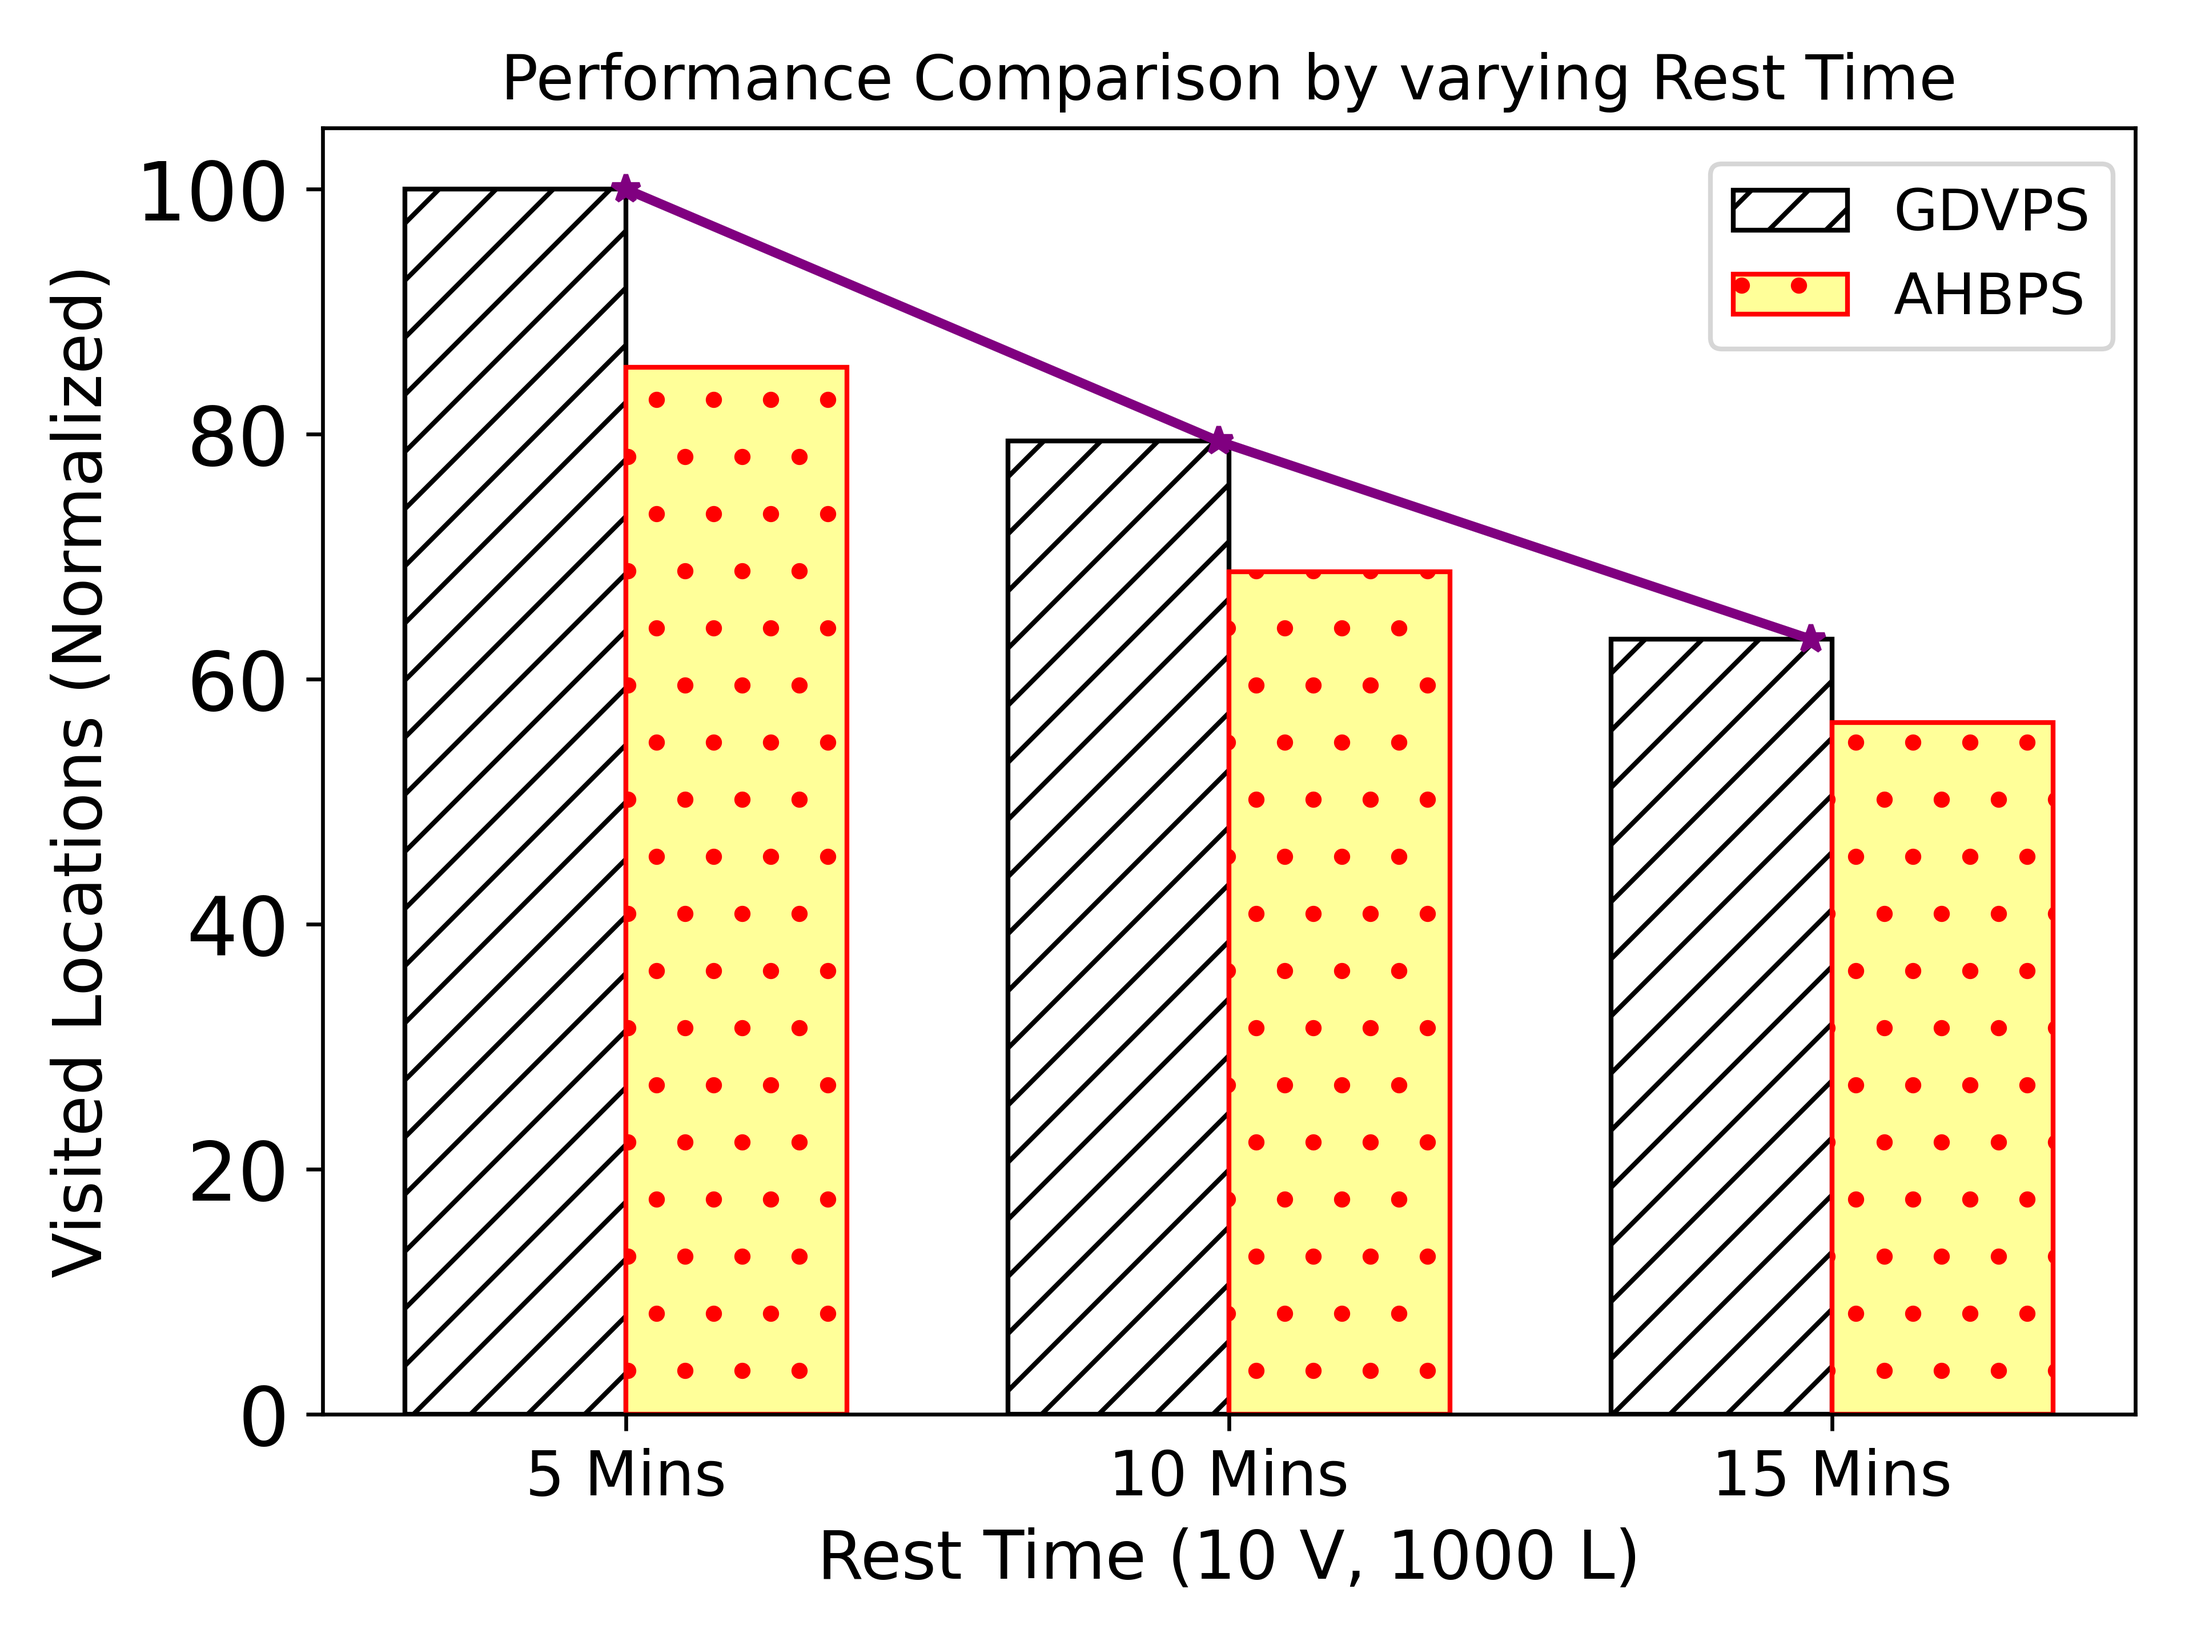
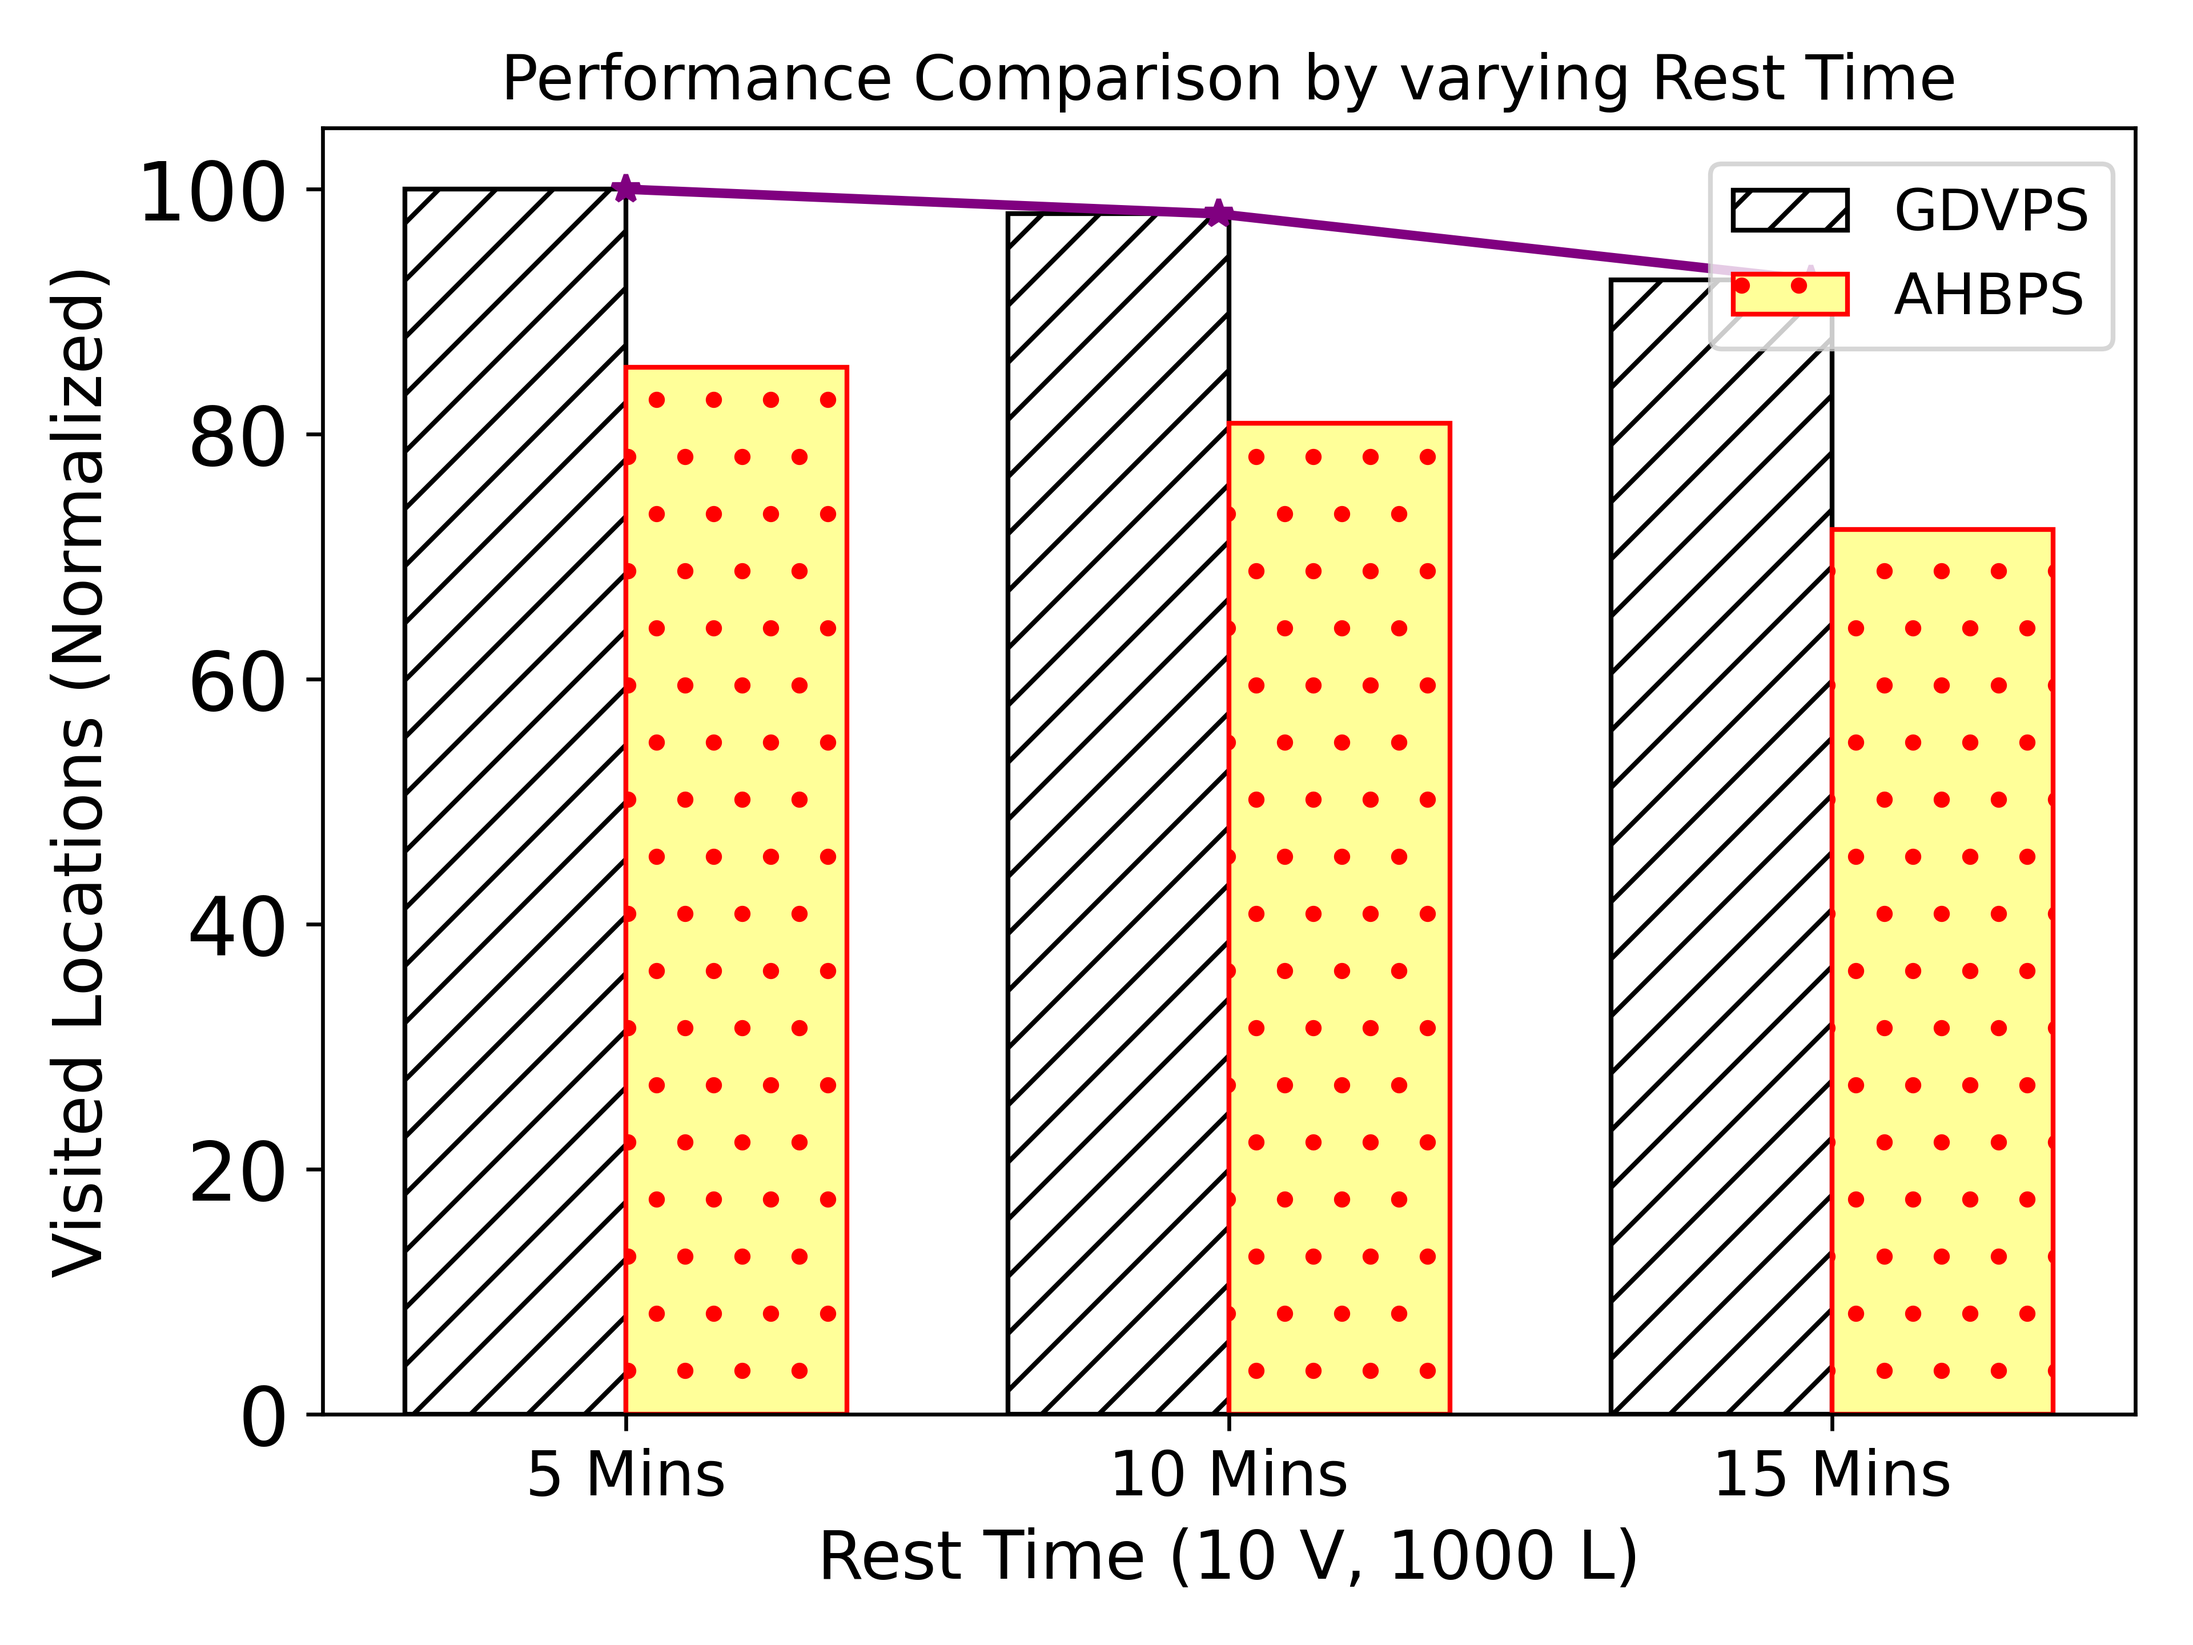
Other visualizations are added

Changed region(s): [[0.2812, 0.0938, 0.9375, 0.4688], [0.3438, 0.1562, 0.4062, 0.1875]]

diff --git a/Visualize_codes/Visualize.py b/Visualize_codes/Visualize.py
@@ -16,44 +16,59 @@ ahbps_values = [4.0, 8.0, 13.0, 4.0, 9.0, 14.0, 5.0, 9.0, 14.0, 5.0, 9.0, 14.0]
 gdvps_values = [6.0, 11.0, 15.0, 6.0, 11.0, 16.0, 6.0, 10.0, 16.0, 6.0, 11.0, 17.0]
 
 # OPL (Optimal) values
-opl_values = [7.0, 12.0, 17.0, 7.0, 13.0, 19.0, 8.0, 13.0, 17.0, 9.0, 15.0, 21.0]
+opl_values = [7.0, 12.0, 17.0, 8.0, 13.0, 19.0, 9.0, 13.0, 17.0, 10.0, 15.0, 21.0]
+
+# Find the maximum value across all sets
+max_value = max(max(ahbps_values), max(gdvps_values), max(opl_values))
+
+# Normalize the values between 0 and 100
+ahbps_values_normalized = [(val / max_value) * 100 for val in ahbps_values]
+gdvps_values_normalized = [(val / max_value) * 100 for val in gdvps_values]
+opl_values_normalized = [(val / max_value) * 100 for val in opl_values]
 
 # X-axis positions
-x = np.arange(len(scenarios)) * 1.5
-
-# Bar width
-bar_width = 0.35  # Slightly smaller to fit three bars side by side
+x = np.arange(len(scenarios))
 
 # Creating the plot
 fig, ax = plt.subplots()
 
-# Bar for OPL (summer green with horizontal hatch) on the far left
-bars_opl = ax.bar(x - bar_width, opl_values, bar_width, label='OPL', color='limegreen', 
-                  hatch='-', edgecolor='darkgreen')
+# Plot each vehicle group separately without connecting the instances
+# Group 1V
+ax.plot(x[0:3], opl_values_normalized[0:3], color='limegreen', marker='o', linestyle='-', linewidth=2, label="OPL")
+ax.plot(x[0:3], gdvps_values_normalized[0:3], color='black', marker='s', linestyle='--', linewidth=2, label="GDVPS")
+ax.plot(x[0:3], ahbps_values_normalized[0:3], color='#FFD700', marker='^', linestyle=':', linewidth=2, label="AHBPS")
 
-# Bar for GDVPS (black with stripes) in the middle
-bars_gdvps = ax.bar(x, gdvps_values, bar_width, label='GDVPS', color='white', 
-                    hatch='//', edgecolor='black')
+# Group 2V
+ax.plot(x[3:6], opl_values_normalized[3:6], color='limegreen', marker='o', linestyle='-', linewidth=2)
+ax.plot(x[3:6], gdvps_values_normalized[3:6], color='black', marker='s', linestyle='--', linewidth=2)
+ax.plot(x[3:6], ahbps_values_normalized[3:6], color='#FFD700', marker='^', linestyle=':', linewidth=2)
 
-# Bar for AHBPS (pale yellow with dots) on the right
-bars_ahbps = ax.bar(x + bar_width, ahbps_values, bar_width, label='AHBPS', color='#FFFF99', 
-                    hatch='.', edgecolor='red')
+# Group 3V
+ax.plot(x[6:9], opl_values_normalized[6:9], color='limegreen', marker='o', linestyle='-', linewidth=2)
+ax.plot(x[6:9], gdvps_values_normalized[6:9], color='black', marker='s', linestyle='--', linewidth=2)
+ax.plot(x[6:9], ahbps_values_normalized[6:9], color='#FFD700', marker='^', linestyle=':', linewidth=2)
 
-# Finding the maximum values for each vehicle group
-top_achieved_values = [
-    max([opl_values[i], gdvps_values[i], ahbps_values[i]]) for i in [2, 5, 8, 11]
-]  # Index 2, 5, 8, 11 correspond to '15 locations' for each vehicle group (1V, 2V, 3V, 4V)
+# Group 4V
+ax.plot(x[9:12], opl_values_normalized[9:12], color='limegreen', marker='o', linestyle='-', linewidth=2)
+ax.plot(x[9:12], gdvps_values_normalized[9:12], color='black', marker='s', linestyle='--', linewidth=2)
+ax.plot(x[9:12], ahbps_values_normalized[9:12], color='#FFD700', marker='^', linestyle=':', linewidth=2)
 
-# Corresponding x positions for these top results (use mid-bar positions for each group)
+# Finding the maximum normalized values for each vehicle group
+top_achieved_values_normalized = [
+    max([opl_values_normalized[i], gdvps_values_normalized[i], ahbps_values_normalized[i]]) 
+    for i in [2, 5, 8, 11]  # Index 2, 5, 8, 11 correspond to '15 locations' for each vehicle group (1V, 2V, 3V, 4V)
+]
+
+# Corresponding x positions for these top results
 top_x_positions = [x[2], x[5], x[8], x[11]]  # Corresponding to '1 V, 15 L', '2 V, 15 L', '3 V, 15 L', '4 V, 15 L'
 
 # Plotting the line connecting top results
-# ax.plot(top_x_positions, top_achieved_values, color='red', linestyle='-', marker='*', linewidth=2, label='Top Achieved')
-ax.plot(top_x_positions, top_achieved_values, color='red', linestyle='-', marker='*', linewidth=2)
+# ax.plot(top_x_positions, top_achieved_values_normalized, color='purple', linestyle='-', marker='*', linewidth=2, label='Top Achieved')
+ax.plot(top_x_positions, top_achieved_values_normalized, color='purple', linestyle='-', marker='*', linewidth=2)
 
 # Labels and title with increased font size
 ax.set_xlabel('Different Scenarios', fontsize=14)
-ax.set_ylabel('Visited Locations', fontsize=14)
+ax.set_ylabel('Visited Locations (Normalized)', fontsize=14)
 ax.set_title('Performance Comparison between OPL, AHBPS, and GDVPS', fontsize=13)
 
 # Set the tick labels for the x-axis with increased font size
@@ -70,7 +85,7 @@ ax.legend(fontsize=12)
 plt.tight_layout()
 
 # Save the plot locally
-plt.savefig('comparison_opl_ahbps_gdvps_with_top_line.png', dpi=600)
+plt.savefig('comparison_opl_ahbps_gdvps_with_top_line_normalized.png', dpi=600)
 
 # Show the plot
 plt.show()

diff --git a/diff rest_time/Visualization.py b/diff rest_time/Visualization.py
@@ -5,10 +5,10 @@ import numpy as np
 scenarios = ['5 Mins', '10 Mins', '15 Mins']
 
 # AHBPS (Average Unique Locations Visited)
-ahbps_values = [254.71, 205.01, 168.23]
+ahbps_values = [254.71, 241.01, 215.23]
 
 # GDVPS (Average fitness)
-gdvps_values = [298, 236.715, 188.537]
+gdvps_values = [298, 292, 276]
 
 # Find the maximum value from both lists
 max_value = max(max(ahbps_values), max(gdvps_values))
